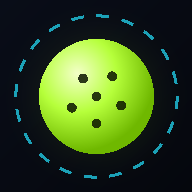
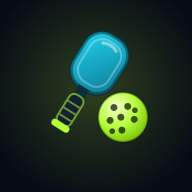
Pickleball paddle-and-ball artwork, court-style court cards, podium fixes
- Replace the table-tennis and tennis emoji with an original pickleball paddle and ball
  (logo, icons, favicon, Board, tour, stats)
- Court cards are now a small pickleball court: service courts, centre line, kitchen lines and a net
- Win buttons name the team ("Eli & Hana won")
- Podium team names wrap instead of being cut off
- Copy updated to match the new buttons

diff --git a/src/components/Live.tsx b/src/components/Live.tsx
@@ -7,6 +7,7 @@ import { etaText, queueEta, rivalryFor, streakCall } from '../engine/insights'
 import { TIME_MARK_MIN, chime, setSound, useSound } from '../lib/cues'
 import Board from './Board'
 import { useConfirm } from './Confirm'
+import { HalfCourt } from './art'
 import {
   addCourt, addPlayer, addTeam, cancelMatch, clearPriority, finishMatch, playNext, pullOut, remixCourt, remixNext, renamePlayer, sendBack, planCourtRemoval, removeCourt, MAX_COURTS, setLevel,
   setStatus, substitute, swapOutOfNext, toggleCourtTag, nameTaken, isKing, type Result,
@@ -210,17 +211,24 @@ function CourtCard({ s, c, now, onScore, onSub, onRemix, onWin, onTags }: { s: S
       {call && <div className="flex items-center gap-1.5 bg-amber-50 px-3 py-1.5 text-sm font-bold text-amber-900 dark:bg-amber-950/50 dark:text-amber-200"><Crown size={15} /> {call}</div>}
       {m ? (
         <div className="p-3">
-          <Side s={s} ids={m.a} onSub={(id) => onSub(id)} holders={winners && m.streak > 0} />
-          <button className="btn-primary mt-2 w-full !min-h-12" onClick={() => onWin('a')} aria-label={`${join(m.a.map((id) => nameOf(s, id)))} won`}>
-            <Trophy size={18} /> Won
-          </button>
-          <div className="my-3 flex items-center gap-3 text-xs font-bold tracking-widest text-slate-400">
-            <span className="h-px flex-1 bg-slate-200 dark:bg-slate-700" /> VS <span className="h-px flex-1 bg-slate-200 dark:bg-slate-700" />
+          {/* The court: far half on top, the net, then the near half. Partners stand in the left and right service courts. */}
+          <div className="overflow-hidden rounded-2xl border border-slate-200 shadow-inner dark:border-white/10" role="group" aria-label={`${c.name} court`}>
+            <Half s={s} ids={m.a} side="far" king={winners && m.streak > 0} onSub={onSub} />
+            <div className="relative z-10 flex items-center gap-2 bg-slate-900 px-3 py-1.5 text-[10px] font-black tracking-[0.3em] text-slate-300 dark:bg-black/60" aria-hidden>
+              <span className="h-px flex-1 bg-[repeating-linear-gradient(90deg,#8a97b1_0_3px,transparent_3px_7px)]" />
+              NET
+              <span className="h-px flex-1 bg-[repeating-linear-gradient(90deg,#8a97b1_0_3px,transparent_3px_7px)]" />
+            </div>
+            <Half s={s} ids={m.b} side="near" onSub={onSub} />
           </div>
-          <Side s={s} ids={m.b} onSub={(id) => onSub(id)} />
-          <button className="btn-primary mt-2 w-full !min-h-12" onClick={() => onWin('b')} aria-label={`${join(m.b.map((id) => nameOf(s, id)))} won`}>
-            <Trophy size={18} /> Won
-          </button>
+          <div className="mt-2 grid gap-2">
+            <button className="btn-primary !min-h-12 !justify-start !px-4" onClick={() => onWin('a')} aria-label={`${join(m.a.map((id) => nameOf(s, id)))} won`}>
+              <Trophy size={18} className="shrink-0" /> <span className="truncate">{join(m.a.map((id) => nameOf(s, id)))} won</span>
+            </button>
+            <button className="btn-primary !min-h-12 !justify-start !px-4" onClick={() => onWin('b')} aria-label={`${join(m.b.map((id) => nameOf(s, id)))} won`}>
+              <Trophy size={18} className="shrink-0" /> <span className="truncate">{join(m.b.map((id) => nameOf(s, id)))} won</span>
+            </button>
+          </div>
           {riv && <p className="mt-3 rounded-lg bg-sky-100 px-3 py-1.5 text-center text-sm font-semibold text-sky-800 dark:bg-sky-950 dark:text-sky-300">{riv.text}</p>}
           <div className="mt-3 flex gap-2">
             <button className="btn-soft flex-1" onClick={onScore} title="Enter the score, or mark no contest / cancel">Score…</button>
@@ -245,19 +253,25 @@ function CourtCard({ s, c, now, onScore, onSub, onRemix, onWin, onTags }: { s: S
   )
 }
 
-function Side({ s, ids, onSub, holders }: { s: Session; ids: string[]; onSub: (id: string) => void; holders?: boolean }) {
+/** One team's half of the court: grass-green surface, white lines, partners in the left and right service courts. */
+function Half({ s, ids, side, king, onSub }: { s: Session; ids: string[]; side: 'near' | 'far'; king?: boolean; onSub: (id: string) => void }) {
   return (
-    <div className={`grid gap-2 ${ids.length > 1 ? 'grid-cols-2' : 'grid-cols-1'}`}>
-      {ids.map((id) => (
-        <button
-          key={id}
-          onClick={() => onSub(id)}
-          title="Tap to swap this player"
-          className={`min-h-12 truncate rounded-xl px-3 py-2 text-center text-base font-bold ${holders ? 'bg-amber-50 text-amber-900 dark:bg-amber-950/40 dark:text-amber-200' : 'bg-slate-100 dark:bg-slate-800'}`}
-        >
-          {nameOf(s, id)}
-        </button>
-      ))}
+    <div className="relative bg-gradient-to-b from-emerald-600 to-emerald-700 text-white dark:from-emerald-700 dark:to-emerald-800">
+      <HalfCourt side={side} className="pointer-events-none absolute inset-0 h-full w-full text-white/70" />
+      <div className={`relative grid min-h-[5.5rem] ${ids.length > 1 ? 'grid-cols-2' : 'grid-cols-1'} ${side === 'far' ? 'items-start pt-3 pb-5' : 'items-end pt-5 pb-3'}`}>
+        {ids.map((id) => (
+          <button
+            key={id}
+            onClick={() => onSub(id)}
+            title="Tap to swap this player"
+            className={`mx-2 truncate rounded-xl px-2 py-2.5 text-center text-base font-black tracking-tight shadow-lg backdrop-blur-sm transition active:scale-95 ${
+              king ? 'bg-amber-300 text-amber-950 ring-2 ring-amber-100/80' : 'bg-slate-950/70 text-white ring-1 ring-white/25 hover:bg-slate-950/85'
+            }`}
+          >
+            {nameOf(s, id)}
+          </button>
+        ))}
+      </div>
     </div>
   )
 }

diff --git a/src/components/art.tsx b/src/components/art.tsx
@@ -5,26 +5,93 @@ import type { ReactNode } from 'react'
  * SVG, so it is crisp at any size, works offline and adds almost nothing to the download.
  */
 
-/** Glowing pickleball with a court-line ring: the Paddl logo. */
-export function Logo({ size = 64 }: { size?: number }) {
+/**
+ * A pickleball paddle with the ball: the Paddl mark. The paddle is the modern shape (a tall, rounded rectangle face
+ * with a short handle and a pommel); the ball is perforated. Drawn as one tilted group so it works at any size.
+ */
+export function PaddleBall({ size = 64, glow = true }: { size?: number; glow?: boolean }) {
   return (
-    <svg width={size} height={size} viewBox="0 0 64 64" role="img" aria-label="Paddl logo" className="drop-shadow-[0_0_18px_rgba(182,255,59,0.55)]">
+    <svg
+      width={size}
+      height={size}
+      viewBox="0 0 64 64"
+      role="img"
+      aria-label="Pickleball paddle and ball"
+      className={glow ? 'drop-shadow-[0_0_14px_rgba(182,255,59,0.5)]' : undefined}
+    >
       <defs>
-        <radialGradient id="pb" cx="38%" cy="32%" r="75%">
+        <linearGradient id="pd-face" x1="0" y1="0" x2="1" y2="1">
+          <stop offset="0" stopColor="#22d3ee" />
+          <stop offset="1" stopColor="#0b7a96" />
+        </linearGradient>
+        <radialGradient id="pd-ball" cx="36%" cy="30%" r="80%">
           <stop offset="0" stopColor="#f3ffc8" />
-          <stop offset="0.45" stopColor="#b6ff3b" />
+          <stop offset="0.5" stopColor="#b6ff3b" />
           <stop offset="1" stopColor="#6fb800" />
         </radialGradient>
       </defs>
-      <circle cx="32" cy="32" r="29" fill="none" stroke="#22d3ee" strokeOpacity="0.55" strokeWidth="1.5" strokeDasharray="3 5" />
-      <circle cx="32" cy="32" r="21" fill="url(#pb)" />
-      <g fill="#0b1400" fillOpacity="0.78">
-        <circle cx="26" cy="25" r="2.3" />
-        <circle cx="37" cy="24" r="2.3" />
-        <circle cx="32" cy="33" r="2.3" />
-        <circle cx="23" cy="36" r="2.3" />
-        <circle cx="41" cy="35" r="2.3" />
-        <circle cx="32" cy="43" r="2.3" />
+      {/* paddle, tilted */}
+      <g transform="translate(6 3) rotate(32 26 30) scale(0.92)">
+        <rect x="14" y="3" width="24" height="31" rx="10" fill="url(#pd-face)" />
+        <rect x="14" y="3" width="24" height="31" rx="10" fill="none" stroke="#0a2e3a" strokeOpacity="0.55" strokeWidth="2.2" />
+        <rect x="17.5" y="6.5" width="17" height="24" rx="7" fill="none" stroke="#ffffff" strokeOpacity="0.28" strokeWidth="1" />
+        <path d="M22 9 q4 -2 8 0" fill="none" stroke="#ffffff" strokeOpacity="0.45" strokeWidth="1.6" strokeLinecap="round" />
+        <rect x="23" y="33" width="6" height="6" fill="#0a2e3a" />
+        <rect x="22" y="38" width="8" height="17" rx="3" fill="#13202e" />
+        <rect x="22" y="38" width="8" height="17" rx="3" fill="none" stroke="#b6ff3b" strokeOpacity="0.55" strokeWidth="1" />
+        <g stroke="#b6ff3b" strokeOpacity="0.5" strokeWidth="1">
+          <line x1="22.5" y1="43" x2="29.5" y2="43" />
+          <line x1="22.5" y1="47" x2="29.5" y2="47" />
+          <line x1="22.5" y1="51" x2="29.5" y2="51" />
+        </g>
+        <rect x="21" y="54" width="10" height="3.5" rx="1.6" fill="#b6ff3b" />
+      </g>
+      {/* ball */}
+      <circle cx="48" cy="46" r="11.5" fill="url(#pd-ball)" />
+      <circle cx="48" cy="46" r="11.5" fill="none" stroke="#0b1400" strokeOpacity="0.35" strokeWidth="1" />
+      <g fill="#0b1400" fillOpacity="0.72">
+        <circle cx="43.8" cy="41.5" r="1.6" />
+        <circle cx="50.2" cy="41" r="1.6" />
+        <circle cx="47" cy="46" r="1.6" />
+        <circle cx="42" cy="47.5" r="1.6" />
+        <circle cx="53.2" cy="47" r="1.6" />
+        <circle cx="47.5" cy="52" r="1.6" />
+        <circle cx="53.5" cy="42.8" r="1.3" />
+        <circle cx="43" cy="52.5" r="1.3" />
+      </g>
+    </svg>
+  )
+}
+
+/** The Paddl logo: the paddle and ball inside a soft dashed ring. */
+export function Logo({ size = 64 }: { size?: number }) {
+  return (
+    <div className="relative grid place-items-center" style={{ width: size, height: size }}>
+      <svg viewBox="0 0 64 64" width={size} height={size} className="absolute inset-0" aria-hidden>
+        <circle cx="32" cy="32" r="30" fill="none" stroke="#22d3ee" strokeOpacity="0.4" strokeWidth="1.2" strokeDasharray="3 5" />
+      </svg>
+      <PaddleBall size={Math.round(size * 0.82)} />
+    </div>
+  )
+}
+
+/**
+ * A small pickleball court seen from above, split by the net. Used behind each team on a court card.
+ * 'near' = the half drawn at the bottom (service courts + kitchen at its top edge); 'far' mirrors it.
+ */
+export function HalfCourt({ side, className = '' }: { side: 'near' | 'far'; className?: string }) {
+  const far = side === 'far'
+  return (
+    <svg viewBox="0 0 200 74" preserveAspectRatio="none" className={className} aria-hidden>
+      <g fill="none" stroke="currentColor" strokeWidth="1.6" strokeLinecap="round">
+        {/* kitchen line (non-volley zone) next to the net */}
+        <line x1="0" y1={far ? 66 : 8} x2="200" y2={far ? 66 : 8} strokeDasharray="5 4" />
+        {/* centre line between the left and right service courts */}
+        <line x1="100" y1={far ? 0 : 8} x2="100" y2={far ? 66 : 74} />
+        {/* baseline and sidelines */}
+        <line x1="0" y1={far ? 0 : 74} x2="200" y2={far ? 0 : 74} />
+        <line x1="0" y1="0" x2="0" y2="74" />
+        <line x1="200" y1="0" x2="200" y2="74" />
       </g>
     </svg>
   )

diff --git a/src/components/ResultsView.tsx b/src/components/ResultsView.tsx
@@ -1,6 +1,7 @@
 import { useState } from 'react'
 import { ChevronDown, Crown, Flame, Timer, Trophy } from 'lucide-react'
 import type { Session } from '../engine/types'
+import { PaddleBall } from './art'
 import { nameOf, standings, summarize, type PlayerStat } from '../engine/stats'
 import { join } from '../lib/util'
 
@@ -37,7 +38,7 @@ export function Podium({ rows }: { rows: PlayerStat[] }) {
           return (
             <div key={p.id} className="flex flex-col items-center">
               <div className={first ? 'text-4xl drop-shadow-[0_0_14px_rgba(255,194,51,0.7)]' : 'text-3xl'}>{first ? '👑' : medal(i)}</div>
-              <div className={`mt-1 w-full truncate px-1 font-black tracking-tight ${first ? 'text-xl' : 'text-base'}`}>{p.name}</div>
+              <div className={`mt-1 line-clamp-2 w-full px-1 font-black leading-tight tracking-tight break-words ${first ? 'text-lg' : 'text-sm'}`}>{p.name}</div>
               <div className="mb-2 text-xs font-semibold text-slate-500 dark:text-slate-400">{p.wins}W · {p.losses}L</div>
               <div
                 className={`flex w-full items-start justify-center rounded-t-2xl border border-b-0 pt-2 text-2xl font-black ${height[col]} ${
@@ -59,8 +60,8 @@ export function Podium({ rows }: { rows: PlayerStat[] }) {
 /** A row of headline numbers. */
 export function StatStrip({ s }: { s: Session }) {
   const sum = summarize(s)
-  const items: [string, string, string][] = [
-    ['🎾', String(sum.matches), 'games'],
+  const items: [React.ReactNode, string, string][] = [
+    [<PaddleBall key="pb" size={22} glow={false} />, String(sum.matches), 'games'],
     ['👥', String(s.players.length), 'players'],
     ['⏱', minutes(sum.durationMs), 'session'],
     ['🔥', sum.hotStreak ? String(sum.hotStreak.longestStreak) : '–', 'best streak'],
@@ -69,7 +70,7 @@ export function StatStrip({ s }: { s: Session }) {
     <div className="mt-4 grid grid-cols-4 gap-2">
       {items.map(([e, v, l]) => (
         <div key={l} className="card px-2 py-3 text-center">
-          <div className="text-lg leading-none">{e}</div>
+          <div className="flex h-5 items-center justify-center text-lg leading-none">{e}</div>
           <div className="mt-1 text-lg font-black tabular-nums leading-tight">{v}</div>
           <div className="text-[10px] font-bold tracking-widest text-slate-500 uppercase dark:text-slate-400">{l}</div>
         </div>

diff --git a/src/App.tsx b/src/App.tsx
@@ -128,11 +128,11 @@ function Home({ onNew, onHelp }: { onNew: () => void; onHelp: () => void }) {
       </div>
 
       <section className="card relative mt-3 overflow-hidden px-5 pt-8 pb-7 text-center">
-        <CourtLines className="pointer-events-none absolute inset-x-4 top-4 h-auto w-[calc(100%-2rem)] text-slate-400/20 [mask-image:linear-gradient(to_bottom,transparent,#000_30%,#000_55%,transparent)] dark:text-accent/12" />
+        <CourtLines className="pointer-events-none absolute inset-x-6 bottom-0 h-24 w-[calc(100%-3rem)] text-slate-400/20 [mask-image:linear-gradient(to_top,#000,transparent)] dark:text-accent/15" />
         <div className="relative">
           <div className="mx-auto w-fit"><Logo size={84} /></div>
           <h1 className="mt-3 text-5xl font-black tracking-tight drop-shadow-[0_2px_12px_var(--bg)]">PADDL</h1>
-          <p className="mx-auto mt-2 max-w-xs text-sm text-slate-600 dark:text-slate-300">Fair pickleball queues for open play.<br />No sign-up. Works offline. 🏓</p>
+          <p className="mx-auto mt-2 max-w-xs text-sm text-slate-600 dark:text-slate-300">Fair pickleball queues for open play.<br />No sign-up. Works offline.</p>
           <button className="btn-primary mt-6 w-full !min-h-14 text-base" onClick={onNew}><Plus size={22} /> New session</button>
         </div>
       </section>
@@ -155,7 +155,7 @@ function Home({ onNew, onHelp }: { onNew: () => void; onHelp: () => void }) {
           <ol className="grid gap-2 sm:grid-cols-3">
             {[
               ['👥', 'Add players', 'Paste your list and pick your courts and a mode.'],
-              ['🏆', 'Tap Won', 'When a game ends, tap the winning team. The next match starts itself.'],
+              ['🏆', 'Tap the winner', 'When a game ends, tap the green button for the winning team. The next match starts itself.'],
               ['📸', 'Share the recap', 'End the session for standings, history and images for the group chat.'],
             ].map(([e, title, text], i) => (
               <li key={title} className="card p-4">

diff --git a/src/components/Tour.tsx b/src/components/Tour.tsx
@@ -1,6 +1,6 @@
 import { useState } from 'react'
 import { ArrowRight } from 'lucide-react'
-import { Illustration, Logo } from './art'
+import { Illustration, Logo, PaddleBall } from './art'
 
 const KEY = 'paddl:tour'
 
@@ -23,7 +23,7 @@ export function markTourSeen() {
 const STEPS: { emoji: string; title: string; text: string; scene: 'start' | 'games' | 'players' | 'free' | 'logo' }[] = [
   { emoji: '👋', title: 'Welcome to Paddl', text: 'Run fair pickleball open play from your phone. No sign-up, and it works with no signal.', scene: 'logo' },
   { emoji: '👥', title: 'Add players, pick a mode', text: 'Paste your list of names, choose your courts and a mode. Fair rotation is the easy default.', scene: 'players' },
-  { emoji: '🏆', title: 'Tap Won. That is it.', text: 'When a game ends, tap Won under the winning team. The next match starts by itself.', scene: 'games' },
+  { emoji: '🏆', title: 'Tap the winner. That is it.', text: 'When a game ends, tap the button for the winning team. The next match starts by itself.', scene: 'games' },
   { emoji: '📺', title: 'Show the Board', text: 'Put the Board on a tablet or TV so everyone sees who is on deck. You can tap winners there too.', scene: 'free' },
   { emoji: '📸', title: 'End with a recap', text: 'Tap End for standings, games played, history and pictures to share in the group chat.', scene: 'start' },
 ]
@@ -58,7 +58,7 @@ export default function Tour({ onDone }: { onDone: () => void }) {
         <div className="mt-5 flex gap-2">
           {!last && <button className="btn-ghost flex-1" onClick={finish}>Skip</button>}
           <button className="btn-primary flex-[2] !min-h-12" onClick={() => (last ? finish() : setI(i + 1))}>
-            {last ? "Let's play 🏓" : <>Next <ArrowRight size={18} /></>}
+            {last ? <>Let's play <PaddleBall size={20} glow={false} /></> : <>Next <ArrowRight size={18} /></>}
           </button>
         </div>
       </div>

diff --git a/src/components/Board.tsx b/src/components/Board.tsx
@@ -9,7 +9,7 @@ import { nameOf } from '../engine/stats'
 import { setSound, useSound } from '../lib/cues'
 import { elapsed, join, useNow } from '../lib/util'
 import { undo, updateActive, useData } from '../store'
-import { CourtLines } from './art'
+import { CourtLines, PaddleBall } from './art'
 
 /**
  * Big-screen scoreboard and queue board: high contrast, large type. Prop a tablet near the courts or cast the tab
@@ -103,7 +103,7 @@ export default function Board({ s, onClose }: { s: Session; onClose: () => void 
                 <section key={`${c.id}:${m ? m.startedAt : 'idle'}`} className="paddl-in relative flex flex-col overflow-hidden rounded-3xl border border-white/10 bg-white/[0.04] backdrop-blur-md">
                   <div className="relative flex items-center justify-between border-b border-white/10 px-5 py-3">
                     <span aria-hidden className={`absolute inset-x-0 top-0 h-1 ${m ? 'bg-accent shadow-[0_0_18px_rgba(182,255,59,0.9)]' : 'bg-slate-700'}`} />
-                    <h2 className="text-2xl font-black tracking-tight sm:text-3xl">🏓 {c.name}</h2>
+                    <h2 className="flex items-center gap-2 text-2xl font-black tracking-tight sm:text-3xl"><PaddleBall size={30} glow={false} /> {c.name}</h2>
                     <div className="flex items-center gap-2 text-sm font-semibold text-slate-200">
                       {c.tags?.map((t) => <span key={t} className="rounded-full bg-white/10 px-2.5 py-1">{COURT_TAGS[t].emoji} {COURT_TAGS[t].label}</span>)}
                       {m && <span className="tabular-nums">⏱ {elapsed(m.startedAt, now)}</span>}

diff --git a/src/components/Help.tsx b/src/components/Help.tsx
@@ -32,7 +32,7 @@ export default function Help({ onClose, onTour }: { onClose: () => void; onTour?
           <ol className="space-y-1.5">
             <li className={li}><b>1.</b> Tap <b>New session</b>, type or paste your players (one per line), and pick how many courts you have.</li>
             <li className={li}><b>2.</b> Tap <b>Start session</b>. Paddl puts the first players on the courts and lines up the next match.</li>
-            <li className={li}><b>3.</b> When a game ends, tap the <b>Won</b> button under the winning team. The next game starts on its own.</li>
+            <li className={li}><b>3.</b> When a game ends, tap the <b>“… won”</b> button for the winning team. The next game starts on its own.</li>
             <li className={li}><b>4.</b> At the end tap <b>End</b>. You get final standings, games played, match history and images to share.</li>
           </ol>
         </Topic>

diff --git a/src/components/History.tsx b/src/components/History.tsx
@@ -25,7 +25,7 @@ export default function History({ s, readOnly }: { s: Session; readOnly?: boolea
       {!readOnly && list.length > 0 && <p className="mb-3 text-sm text-slate-500 dark:text-slate-400">Tap a game to fix the winner or score, or to delete it.</p>}
       {note && <div role="status" className="mb-3 rounded-xl bg-green-100 px-3 py-2 text-sm font-medium text-green-800 dark:bg-green-950 dark:text-green-300">{note}</div>}
       {list.length === 0 ? (
-        <Empty scene="games" title="No games yet" hint="Tap Won on a court when a game ends and it will show up here." />
+        <Empty scene="games" title="No games yet" hint="Tap the winning team on a court when a game ends and it will show up here." />
       ) : (
         <ul className="space-y-2">
           {list.map((m) => {
